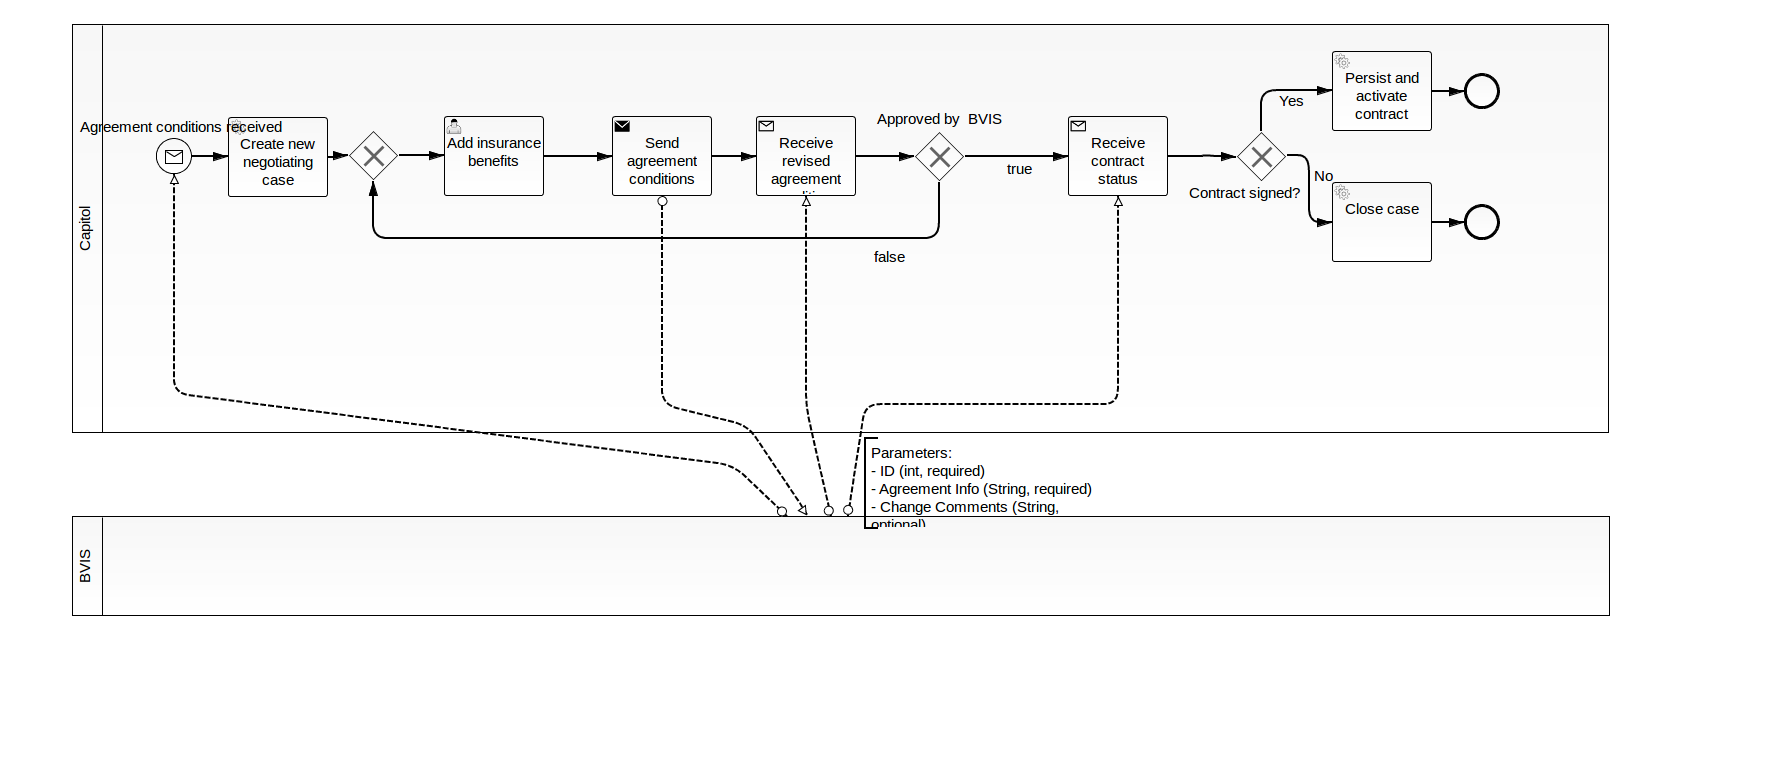
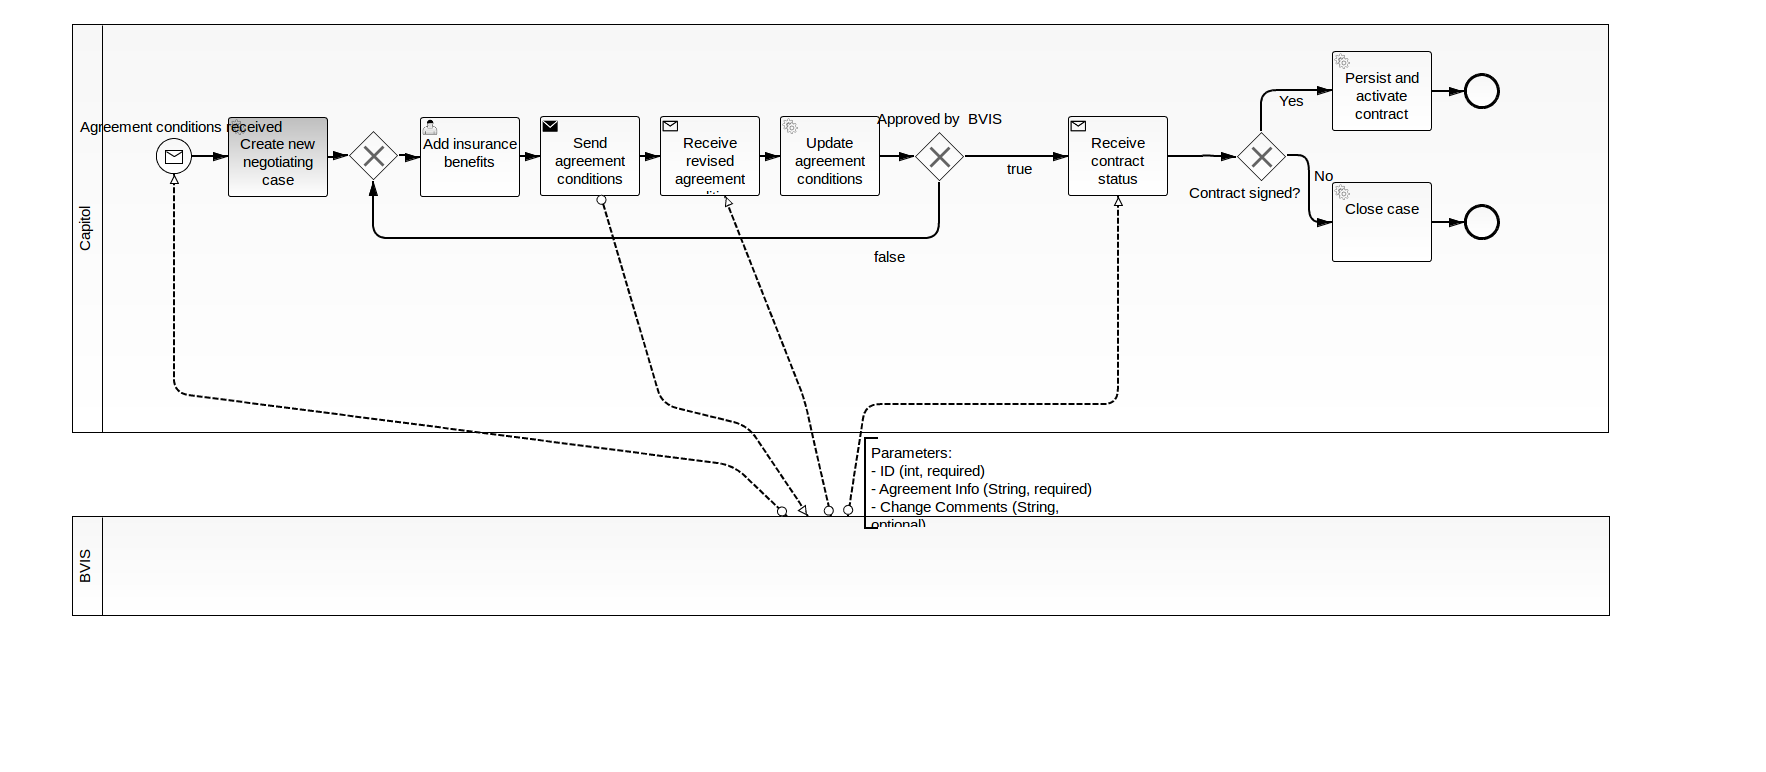
added UpdateContractStatus task

Changed region(s): [[0.218, 0.1554, 0.4983, 0.2798], [0.1246, 0.1554, 0.1869, 0.2176]]

diff --git a/capitol/src/main/java/de/unimuenster/wi/wfm/delegates/UpdateContractStatusDelegate.java b/capitol/src/main/java/de/unimuenster/wi/wfm/delegates/UpdateContractStatusDelegate.java
@@ -1,0 +1,41 @@
+package de.unimuenster.wi.wfm.delegates;
+
+import static org.camunda.spin.Spin.JSON;
+
+import javax.ejb.EJB;
+import javax.inject.Named;
+
+import org.camunda.bpm.engine.delegate.DelegateExecution;
+import org.camunda.bpm.engine.delegate.JavaDelegate;
+
+import de.unimuenster.wi.wfm.ejb.InsuranceContractServiceBean;
+import de.unimuenster.wi.wfm.entitiy.InsuranceContract;
+import de.unimuenster.wi.wfm.entitiy.InsuranceStatus;
+import de.unimuenster.wi.wfm.sharedLib.data.RentalAgreementMessage;
+
+@Named
+public class UpdateContractStatusDelegate implements JavaDelegate {
+	
+	@EJB
+	private InsuranceContractServiceBean insuranceContractService;
+
+	@Override
+	public void execute(DelegateExecution delegateExecution) throws Exception {
+		RentalAgreementMessage rentalAgreementMsg = JSON((String)delegateExecution.getVariable("agreementConditions"))
+				.mapTo(RentalAgreementMessage.class);
+		
+		//update RentalAgreementMessage
+		delegateExecution.setVariable("rentalAgreementRequestIdBVIS", rentalAgreementMsg.getRentalAgreementRequestId());
+		
+		int contractId = Integer.parseInt(delegateExecution.getVariable("contractId").toString());
+		System.out.println("Contract id " + contractId);
+		boolean approvedByBVIS = Boolean.parseBoolean(delegateExecution.getVariable("conditionsApproved").toString());
+		//update contract status
+		InsuranceContract contract = insuranceContractService.getInsuranceContract(contractId);
+		if (!approvedByBVIS) {
+			contract.setStatus(InsuranceStatus.REVISED);
+			insuranceContractService.mergeInsuranceContract(contract);
+		}
+	}
+
+}

diff --git a/capitol/src/main/java/de/unimuenster/wi/wfm/ejb/InsuranceContractServiceBean.java b/capitol/src/main/java/de/unimuenster/wi/wfm/ejb/InsuranceContractServiceBean.java
@@ -6,6 +6,7 @@ import javax.ejb.Stateless;
 import javax.inject.Inject;
 import javax.persistence.EntityManager;
 import javax.persistence.PersistenceContext;
+import javax.persistence.Query;
 
 import org.camunda.bpm.engine.cdi.jsf.TaskForm;
 
@@ -61,6 +62,18 @@ public class InsuranceContractServiceBean {
 		item.getInsuranceBenefitEntity().size();
 		item.getLiabilityCases().size();
 		return item;
+	}
+	
+	public InsuranceContract getInsuranceContractByBVISid(long id) {
+		Query q = em.createQuery("FROM InsuranceContract c WHERE c.rentalAgreementIdBVIS=:bvisId", InsuranceContract.class)
+				.setParameter("bvisId", id);
+		if (q.getResultList().size() > 0) {
+			InsuranceContract item = (InsuranceContract) q.getSingleResult();
+			//force load of associations
+			return getInsuranceContract(item.getId());
+		} else {
+			throw new IllegalStateException("No contract with BVISid found " + id);
+		}
 	}
 	
 	public InsuranceContract mergeInsuranceContract(InsuranceContract insuranceContract) {

diff --git a/capitol/src/main/java/de/unimuenster/wi/wfm/web/AddInsuranceBenefits.java b/capitol/src/main/java/de/unimuenster/wi/wfm/web/AddInsuranceBenefits.java
@@ -178,5 +178,14 @@ public class AddInsuranceBenefits implements Serializable {
 	public void setSuggestedPrice(BigDecimal price) {
 		contract.setInsurancePrice(price);
 	}
+	
+	public String getHeader() {
+		InsuranceContract contract = getContract();
+		if (contract.getStatus() == InsuranceStatus.REVISED) {
+			return "Agreement conditions need revising";
+		} else {
+			return "New negotiation case arrived";
+		}
+	}
 
 }

diff --git a/capitol/src/main/java/de/unimuenster/wi/wfm/ejb/CustomerServiceBean.java b/capitol/src/main/java/de/unimuenster/wi/wfm/ejb/CustomerServiceBean.java
@@ -35,7 +35,6 @@ public class CustomerServiceBean {
 	public Customer getCustomerByName(String name) {
 		Query q = em.createQuery("FROM Customer c WHERE c.name=:name", Customer.class)
 			.setParameter("name", name);
-		System.out.println("Attention");
 		if (q.getResultList().size() == 0) {
 			Customer customer = new Customer();
 			customer.setName(name);
